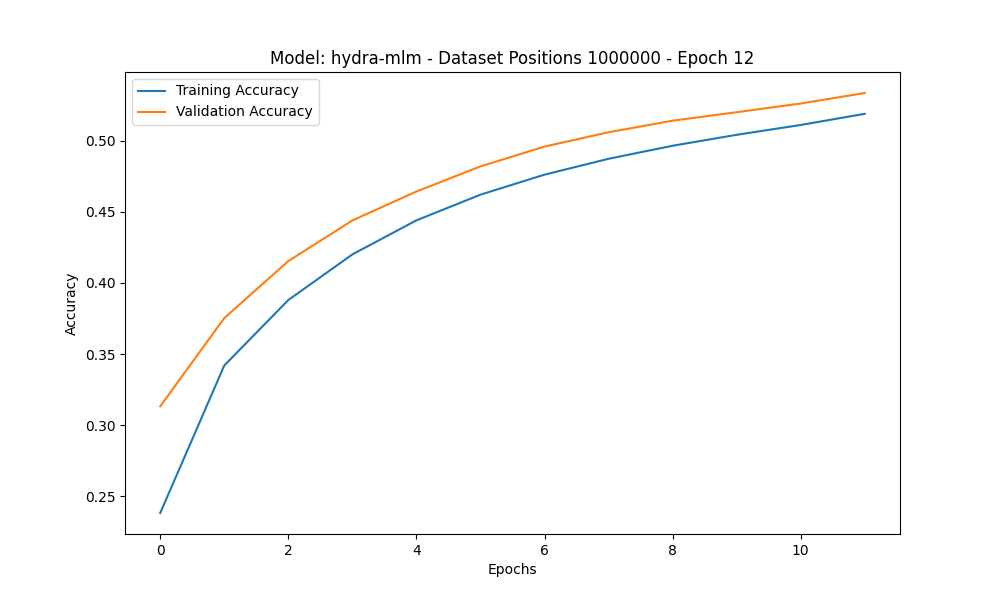
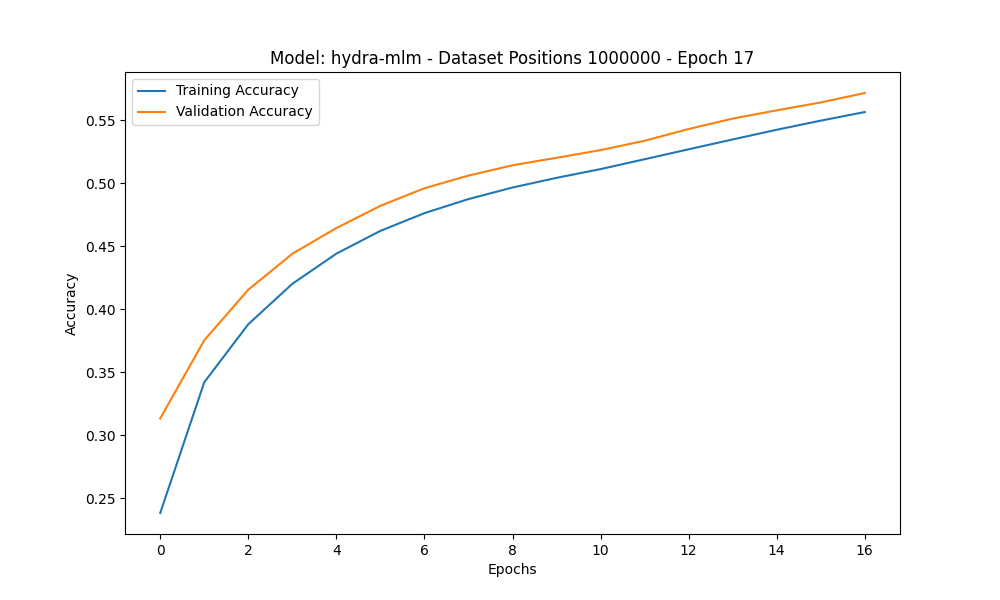
large experiment

diff --git a/hydra/config.py b/hydra/config.py
@@ -34,7 +34,7 @@ positions_save_dir = os.path.join(positions_dir, 'human-middlegames')
 ##### Parsing Positions Into Datasets #####
 ###########################################
 
-positions_load_dir = os.path.join(positions_dir, 'human-middlegames')
+positions_load_dir = os.path.join(positions_dir, 'human-rand-games')
 
 # positions_file = os.path.join(root_dir, 'positions', 'human-training-middlegame-positions-1000.pkl')
 # positions_file = os.path.join(root_dir, 'positions', 'human-training-middlegame-positions-10000.pkl')
@@ -53,8 +53,8 @@ positions_file = os.path.join(root_dir, 'positions', 'human-training-middlegame-
 #############################
 ##### Training Settings #####
 #############################
-train_dataset = 'train-dataset-10k'
-val_dataset = 'val-dataset-10k'
+train_dataset = 'train-dataset-1000000'
+val_dataset = 'val-dataset-1000000'
 model_name = 'hydrachess'
 epochs = 30
 batch_size = 64  # 32 64 128
@@ -62,7 +62,7 @@ seq_length = 128  # 256 max
 # find vocab size by len of list in tokens file
 embed_dim = 256  # 512 too much
 encoder_dense_dim = 2048  # 2048
-encoder_heads = 12
+encoder_heads = 48
 
 
 
@@ -89,7 +89,7 @@ def custom_standardization(input_data):
 
 
 special_tokens=["[mask]"]
-vocab_file = os.path.join(root_dir, 'tokens', 'tokens_1946.pkl')
+vocab_file = os.path.join(root_dir, 'tokens', 'tokens_1966.pkl')
 vocab = []
 with open(vocab_file, 'rb') as f:
     vocab = list(pickle.load(f))

diff --git a/testing.py b/testing.py
@@ -40,8 +40,11 @@ def get_board_tensor_from_moves(move_tokens, move_idx):
     move_idx = move_idx.numpy()
     moves = [config.id2token[token_id] for token_id in move_tokens.numpy()]
     board = chess.Board()
-    for i in range(move_idx+1):
-        board.push_uci(moves[i])
+    try:
+        for i in range(move_idx+1):
+            board.push_uci(moves[i])
+    except Exception as e:
+        print('--> INVALID MOVE')
     return BoardOperations.board_to_tensor(board)
 
 

diff --git a/hydra/layers/BoardEmbedding.py b/hydra/layers/BoardEmbedding.py
@@ -1,7 +1,6 @@
 from keras import layers
 import keras
 from hydra import config
-from keras_nlp.layers import TransformerEncoder
 import numpy as np
 import tensorflow as tf
 
